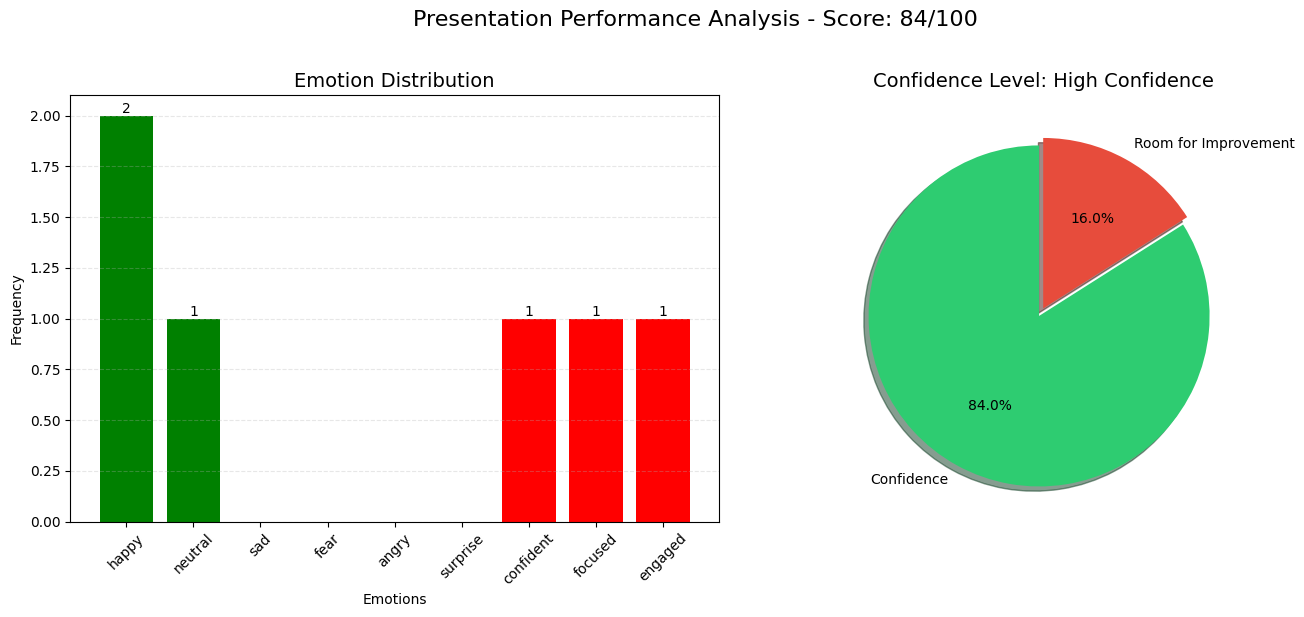
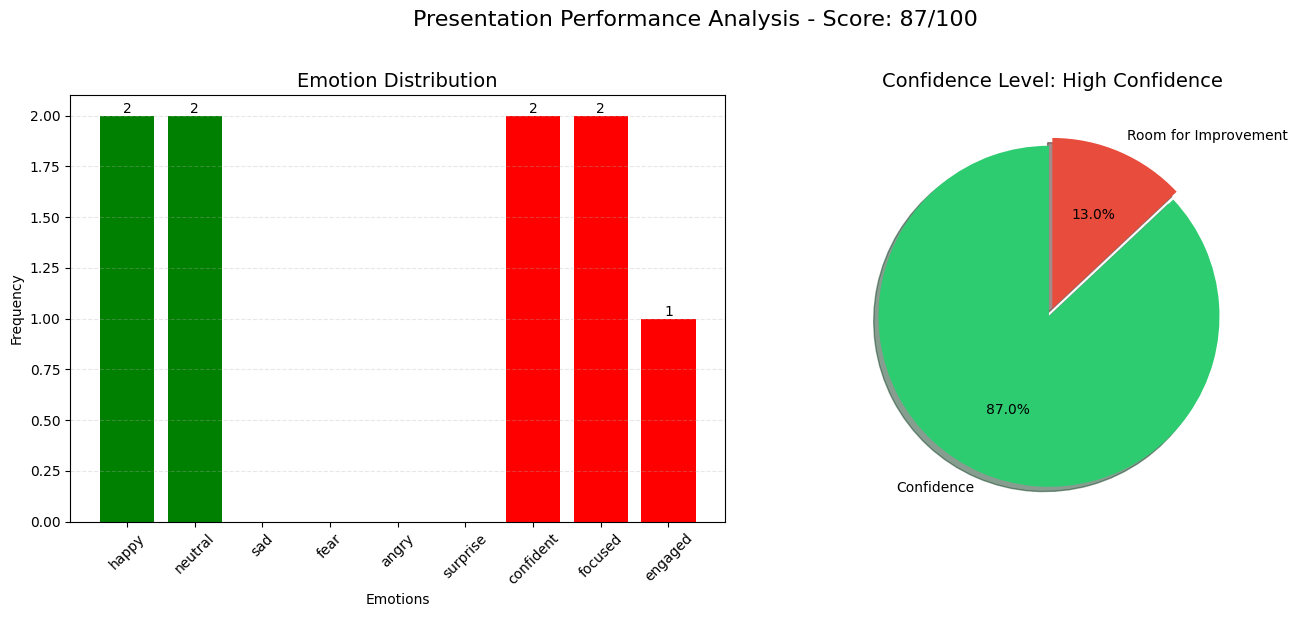
fix backend port error

diff --git a/backend/app/main.py b/backend/app/main.py
@@ -1,4 +1,5 @@
 import os
+from contextlib import asynccontextmanager
 from fastapi import FastAPI
 from fastapi.middleware.cors import CORSMiddleware
 from fastapi.staticfiles import StaticFiles
@@ -14,10 +15,22 @@ from app.services import evaluate_module
 # API Routers
 from app.api.endpoints import auth, evaluation, video, reporting, system
 
+@asynccontextmanager
+async def lifespan(app: FastAPI):
+    print("Initializing databases...")
+    try:
+        connect_to_mongo()
+        evaluate_module.init_database()
+        print("Databases initialized successfully.")
+    except Exception as e:
+        print(f"Database initialization warning/error: {e}")
+    yield
+
 app = FastAPI(
     title="PresentAI Backend",
     description="Backend API for Presentation Evaluator with Multi-User Support",
-    version="2.0.0"
+    version="2.0.0",
+    lifespan=lifespan,
 )
 
 # Rate Limiter setup
@@ -42,15 +55,8 @@ os.makedirs("uploads", exist_ok=True)
 app.mount("/static", StaticFiles(directory="static"), name="static")
 app.mount("/user_data", StaticFiles(directory="user_data"), name="user_data")
 
-# Include Routers
-app.include_router(auth.router)
-app.include_router(evaluation.router)
-app.include_router(video.router)
-app.include_router(reporting.router)
-app.include_router(system.router)
-
[email redacted]_event("startup")
-async def startup_event():
+@asynccontextmanager
+async def lifespan(app: FastAPI):
     print("Initializing databases...")
     try:
         connect_to_mongo()
@@ -58,6 +64,14 @@ async def startup_event():
         print("Databases initialized successfully.")
     except Exception as e:
         print(f"Database initialization warning/error: {e}")
+    yield
+
+# Include Routers
+app.include_router(auth.router)
+app.include_router(evaluation.router)
+app.include_router(video.router)
+app.include_router(reporting.router)
+app.include_router(system.router)
 
 if __name__ == "__main__":
     import uvicorn